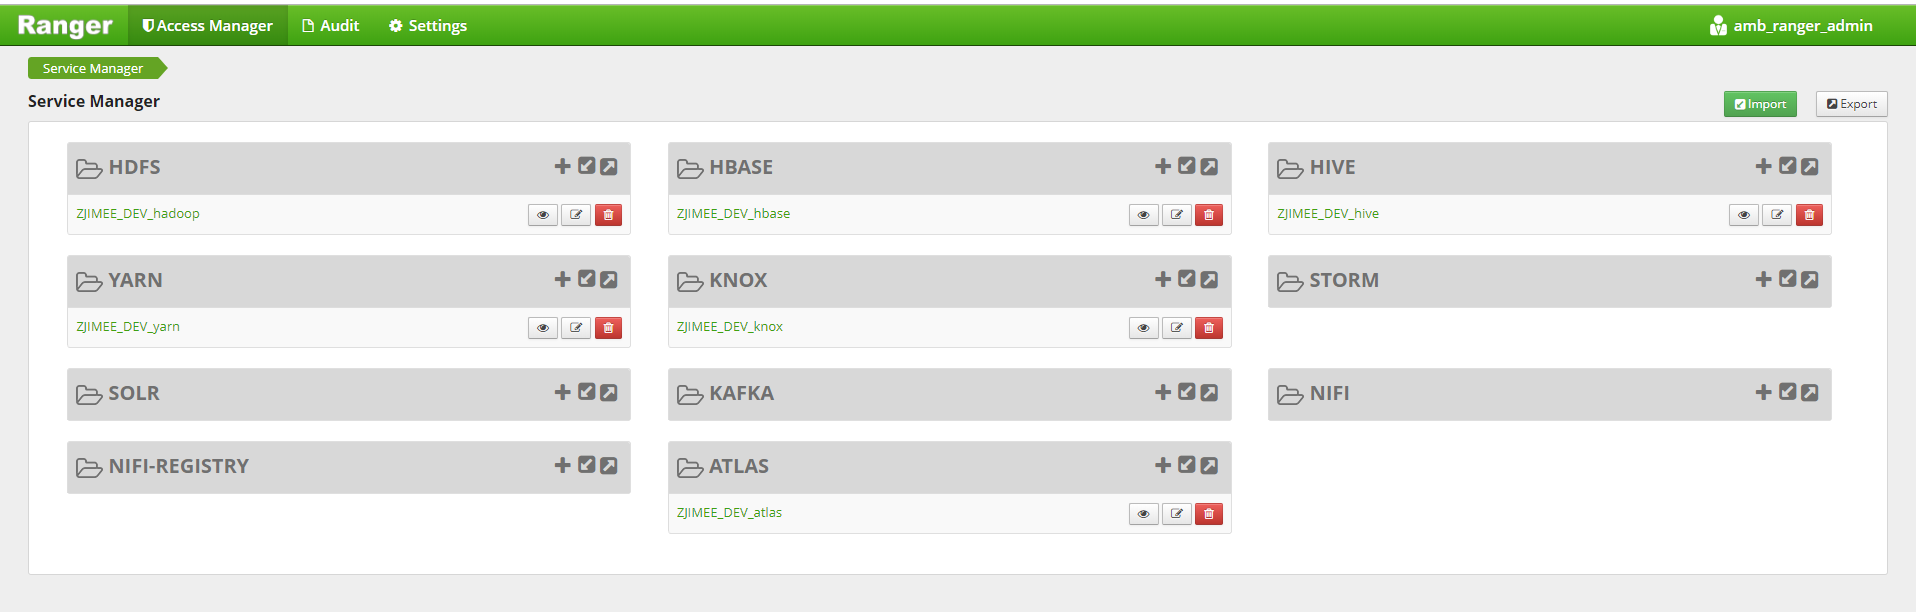
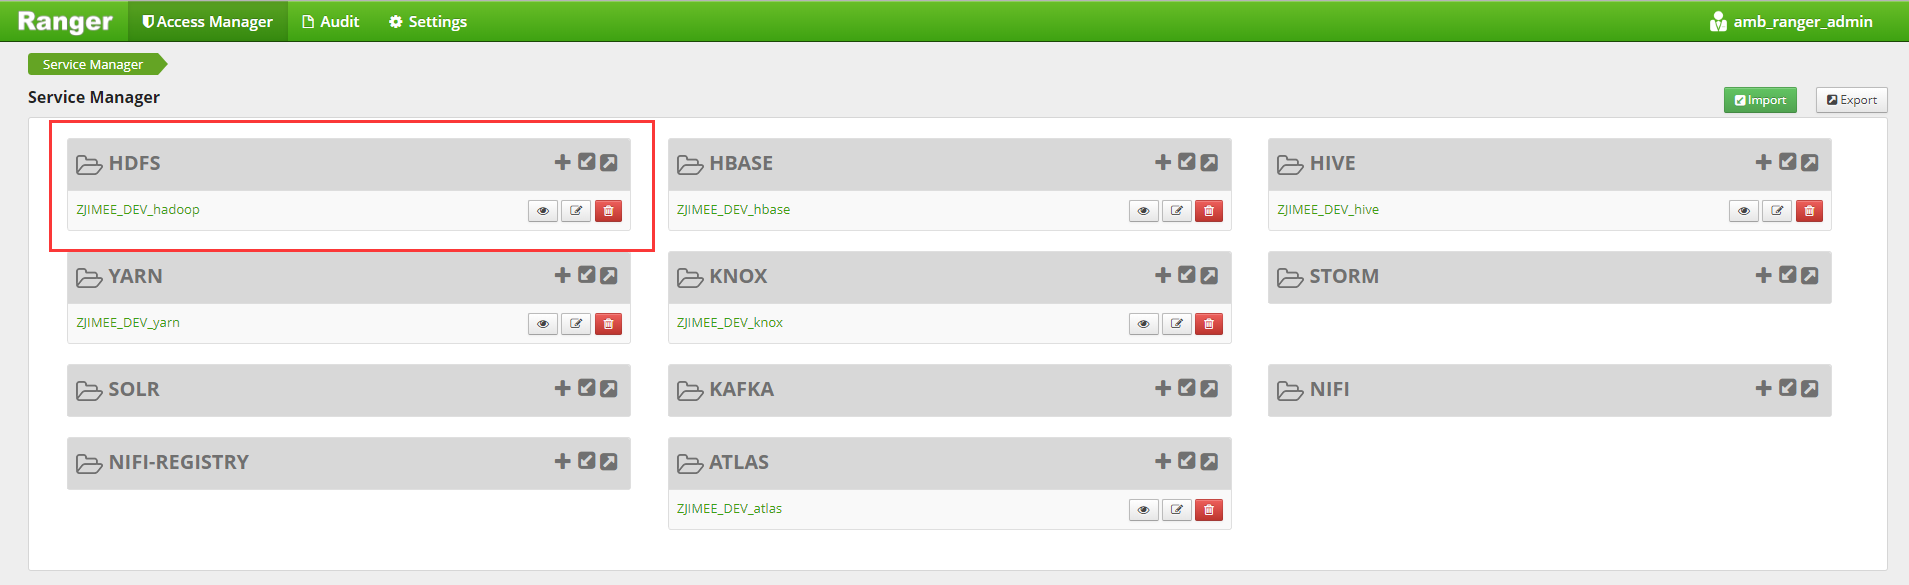
update HDP

Changed region(s): [[0.0, 0.1538, 0.989, 0.8923], [0.0, 0.0, 1.0, 0.1231]]

diff --git a/3.1.大数据/3.1.配置实例/3.HDP安装配置实例/2.8.在Ranger中为独立用户配置访问权限.md b/3.1.大数据/3.1.配置实例/3.HDP安装配置实例/2.8.在Ranger中为独立用户配置访问权限.md
@@ -7,7 +7,7 @@
 可以从Ambari的控制界面中找到入口，另外安装HDP时有配置Ranger的管理员帐号与密码，不要搞忘记了。
 
 ## 让zjimee用户操作HDFS与hdfs用户一样的权限
-图1： 
 
 ![Ranger1](img/24.png)
 
+![Ranger2](img/26.png)
